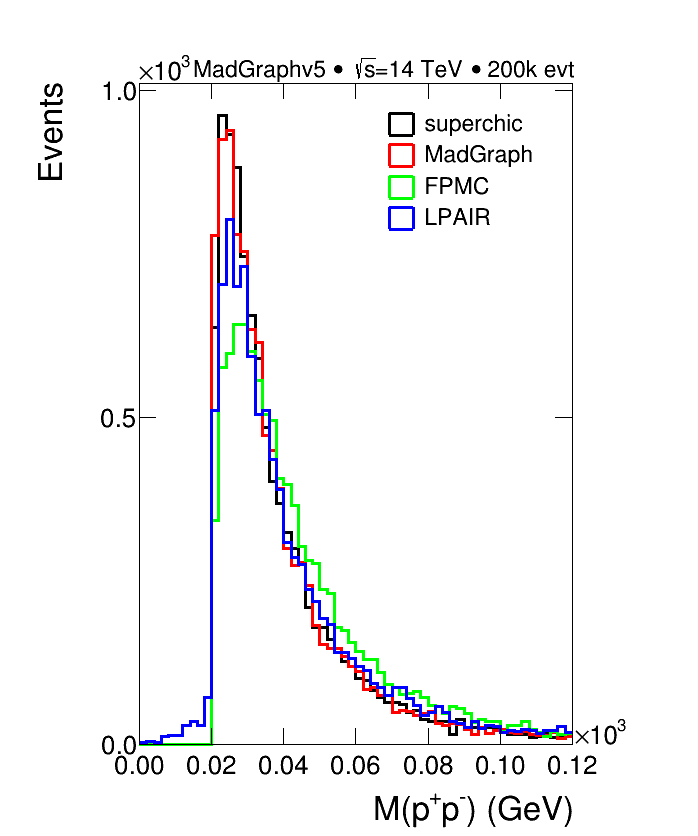
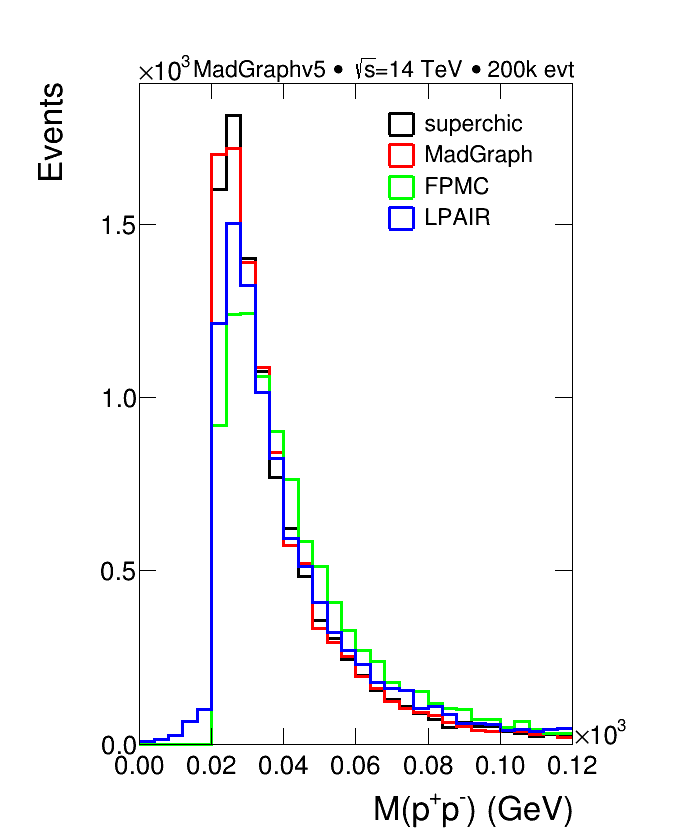
Atualização

diff --git a/graficos/grafico_final_full.py b/graficos/grafico_final_full.py
@@ -161,14 +161,14 @@ for i in range(len(FILES)):
     # 1D
     protpz.append(TH1D("1D_protpz"+"_"+PDF[i]       , "", 50,4300., 7200.))
     proten.append(TH1D("1D_proten"+"_"+PDF[i]       , "", 50,4300., 7200.))
-    protxi.append(TH1D("1D_protxi"+"_"+PDF[i]       , "", 60,-0.003,0.03))
+    protxi.append(TH1D("1D_protxi"+"_"+PDF[i]       , "", 30,-0.003,0.03))
     protpt.append(TH1D("1D_protpt"+"_"+PDF[i]       , "", 50,-0.1, 1.))
     proteta.append(TH1D("1D_proteta"+"_"+PDF[i]       , "", 50,-20., 20.))
-    mpp.append(TH1D("1D_mpp"+"_"+PDF[i]       , "", 60,0., 120.))
+    mpp.append(TH1D("1D_mpp"+"_"+PDF[i]       , "", 30,0., 120.))
     mupz.append(TH1D("1D_mupz"+"_"+PDF[i]       , "", 50,-2500.,2500.))
     muen.append(TH1D("1D_muen"+"_"+PDF[i]       , "", 50,-100., 900.))
     mupt.append(TH1D("1D_mupt"+"_"+PDF[i]       , "", 50,-5., 40.0))
-    ivm_mu.append(TH1D("1D_ivm_mu"+"_"+PDF[i]       , "", 60,0., 120.0))
+    ivm_mu.append(TH1D("1D_ivm_mu"+"_"+PDF[i]       , "", 30,0., 120.0))
     mueta.append(TH1D("1D_mueta"+"_"+PDF[i]       , "", 50,-15., 15.))
     phopz.append(TH1D("1D_phopz"+"_"+PDF[i]       , "", 50,4973., 4980.))
     phopt.append(TH1D("1D_phopt"+"_"+PDF[i]       , "", 50,0., 500.))
